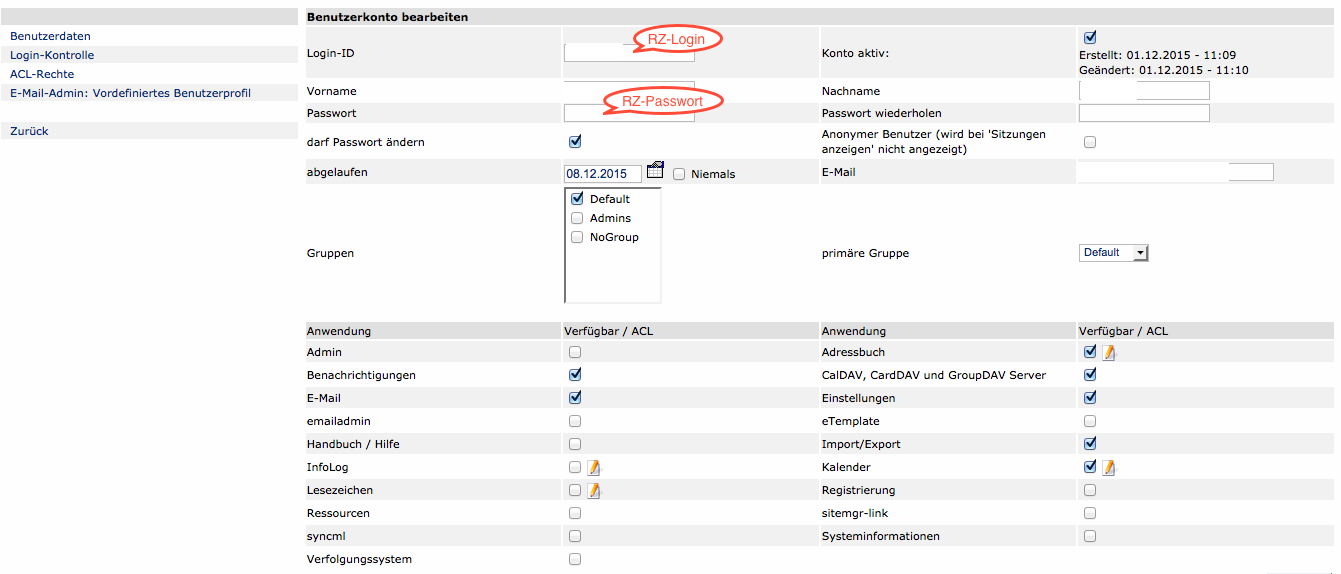
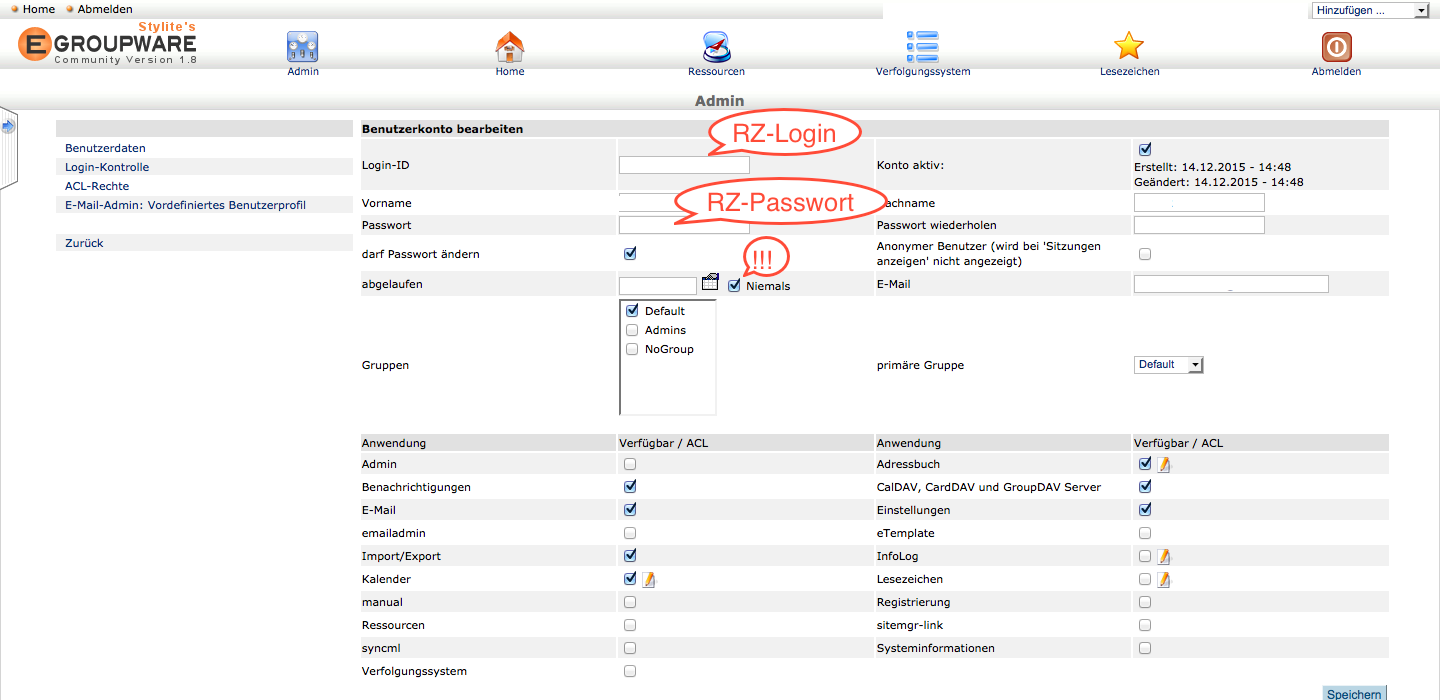
Note to tick "never expire" for accounts. Note to grant reading rights...

diff --git a/kalender-manual.md b/kalender-manual.md
@@ -59,6 +59,6 @@ date: 2015-12-10
 
 ![Abb. 12: ZUgriff gewähren](img/kalender12.png)
 
-13. Dies sollte man für den Bereich "frei / belegt" auch tun, damit man beim Verschicken von Einladungen sofort sieht, ob jemand zu diesem Zeitpunkt verfügbar ist.
+13. Dies sollte man für den Bereich "Lesen" auch tun, um Terminabsprachen zu erleichtern.
 
 ![Abb. 13: Zugriffsrechte](img/kalender13.png)
